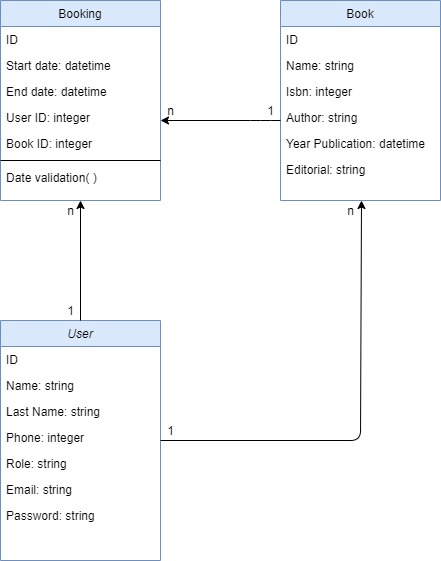
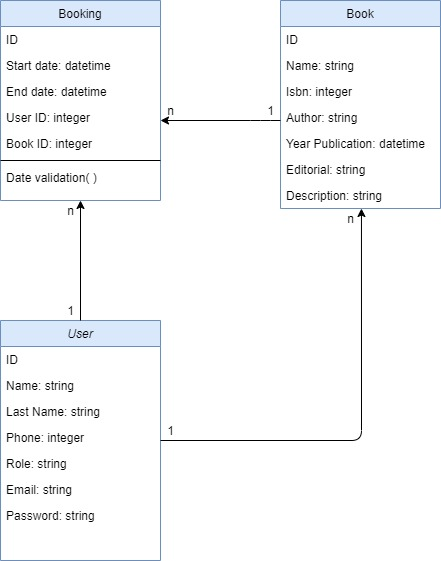
modifs fixs

Changed region(s): [[0.7959, 0.4242, 0.8254, 0.7879], [0.6485, 0.3333, 0.8844, 0.3939]]

diff --git a/app/assets/stylesheets/scaffolds.scss b/app/assets/stylesheets/scaffolds.scss
@@ -96,3 +96,11 @@ label {
   .button_style a {
     color: #333;
   }
+
+.description {
+  display: table;
+  height: 50px;
+  width: 300px;
+  margin: 1rem auto;
+  text-align: center;
+}

diff --git a/db/schema.rb b/db/schema.rb
@@ -10,7 +10,7 @@
 #
 # It's strongly recommended that you check this file into your version control system.
 
-ActiveRecord::Schema.define(version: 2021_02_03_001024) do
+ActiveRecord::Schema.define(version: 2021_02_25_215450) do
 
   create_table "bookings", force: :cascade do |t|
     t.datetime "start_date"
@@ -31,6 +31,7 @@ ActiveRecord::Schema.define(version: 2021_02_03_001024) do
     t.string "editorial"
     t.datetime "created_at", precision: 6, null: false
     t.datetime "updated_at", precision: 6, null: false
+    t.string "description"
   end
 
   create_table "users", force: :cascade do |t|

diff --git a/app/controllers/books_controller.rb b/app/controllers/books_controller.rb
@@ -64,6 +64,6 @@ class BooksController < ApplicationController
 
     # Only allow a list of trusted parameters through.
     def book_params
-      params.require(:book).permit(:name, :isbn, :author, :year_publication, :editorial)
+      params.require(:book).permit(:name, :isbn, :author, :year_publication, :editorial, :description)
     end
 end

diff --git a/db/migrate/20210225215450_add_category_to_books.rb b/db/migrate/20210225215450_add_category_to_books.rb
@@ -1,0 +1,5 @@
+class AddCategoryToBooks < ActiveRecord::Migration[6.1]
+  def change
+    add_column :books, :description, :string
+  end
+end
